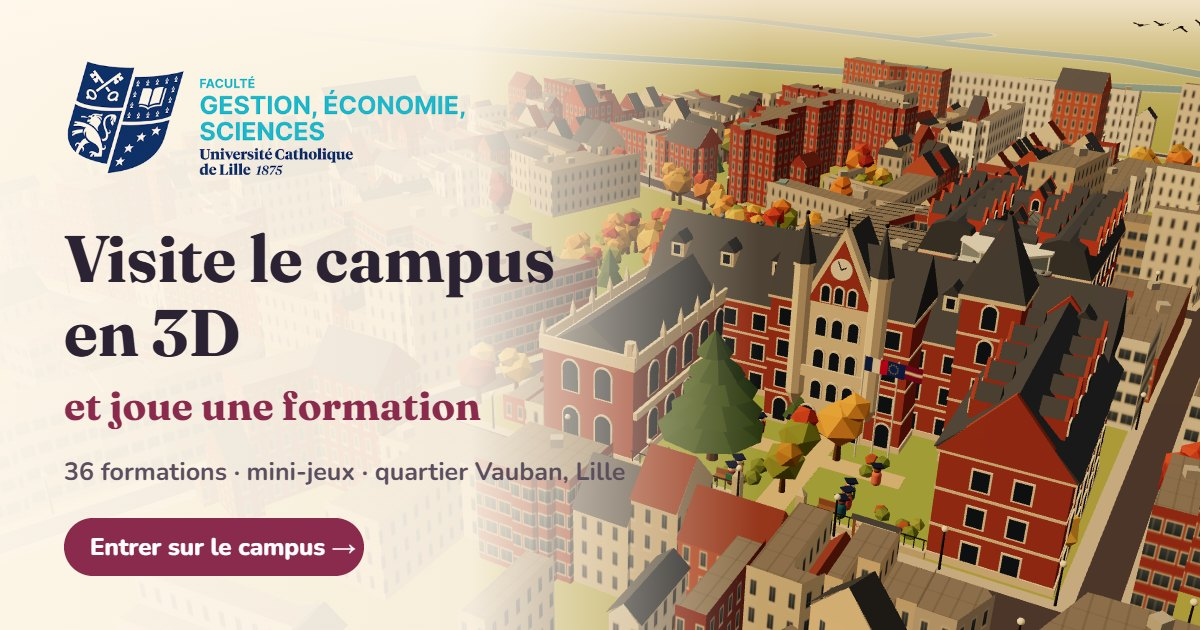
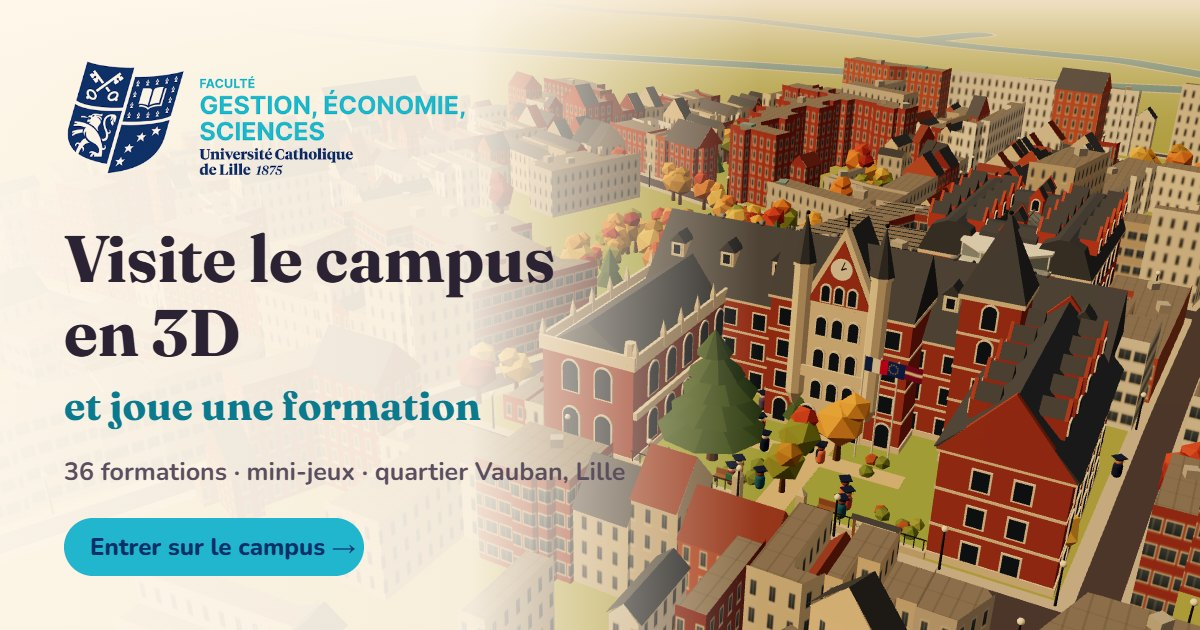
Couleur principale aux couleurs FGES (#21B6CE) à la place du bordeaux
- Fonds bleu FGES avec texte marine (#0B2F67) pour la lisibilité ; bleu foncé (#0B7A8E) pour les textes sur fond clair
- Site, version liste, Comptoir et Mission Jardin ; l'Enquête de l'auditeur (ISEA) garde sa couleur
- Image d'aperçu de partage régénérée

diff --git a/index.html b/index.html
@@ -24,7 +24,7 @@
 <style>
 :root{
 	--cream:#fff8ec; --cream2:#f6ead6; --ink:#2b2233; --ink2:#5b4f5f; --muted:#8a7d86;
-	--navy:#1e305e; --bordeaux:#8a2b4e; --gold:#d9a441; --line:#ead9bf;
+	--navy:#1e305e; --brand:#21b6ce; --brand-ink:#0b7a8e; --on-brand:#0b2f67; --brand-soft:#e4f6f9; --gold:#d9a441; --line:#ead9bf;
 	--shadow:0 18px 50px rgba(60,35,20,.22), 0 2px 6px rgba(60,35,20,.12);
 }
 *{box-sizing:border-box}
@@ -36,8 +36,8 @@ button{font:inherit;color:inherit;cursor:pointer}
 /* ---------- Chargement & fondu ---------- */
 #loader{position:fixed;inset:0;display:grid;place-items:center;background:#f3dcb8;z-index:50;transition:opacity .8s ease}
 #loader.gone{opacity:0;pointer-events:none}
-#loader p{font:600 20px Fraunces,Georgia,serif;color:var(--bordeaux);margin:0}
-#loader i{display:block;width:44px;height:44px;margin:0 auto 14px;border-radius:50%;border:4px solid #e9c99a;border-top-color:var(--bordeaux);animation:spin 1s linear infinite}
+#loader p{font:600 20px Fraunces,Georgia,serif;color:var(--brand-ink);margin:0}
+#loader i{display:block;width:44px;height:44px;margin:0 auto 14px;border-radius:50%;border:4px solid #e9c99a;border-top-color:var(--brand);animation:spin 1s linear infinite}
 @keyframes spin{to{transform:rotate(360deg)}}
 #fade{position:fixed;inset:0;background:#fff3e0;z-index:35;opacity:0;pointer-events:none;transition:opacity .4s ease}
 #fade.on{opacity:1;pointer-events:auto}
@@ -57,7 +57,7 @@ button{font:inherit;color:inherit;cursor:pointer}
 .actions{display:flex;gap:8px;flex-wrap:wrap;justify-content:flex-end;position:relative}
 .chip{display:inline-flex;align-items:center;gap:6px;border:0;background:var(--cream);padding:10px 14px;border-radius:999px;box-shadow:var(--shadow);font-weight:800;font-size:13.5px;transition:transform .15s ease;min-height:42px}
 .chip:hover{transform:translateY(-2px)}
-.chip .n{background:var(--bordeaux);color:#fff;border-radius:999px;min-width:20px;height:20px;padding:0 6px;display:inline-grid;place-items:center;font-size:11.5px}
+.chip .n{background:var(--brand);color:var(--on-brand);border-radius:999px;min-width:20px;height:20px;padding:0 6px;display:inline-grid;place-items:center;font-size:11.5px}
 .chip.icon{width:42px;justify-content:center;padding:10px 0}
 
 /* ---------- Ambiance ---------- */
@@ -67,7 +67,7 @@ button{font:inherit;color:inherit;cursor:pointer}
 .seg{display:flex;gap:6px;flex-wrap:wrap;margin-bottom:12px}
 .seg:last-child{margin-bottom:0}
 .seg button{flex:1;border:2px solid var(--line);background:#fff;border-radius:12px;padding:8px 6px;font-weight:800;font-size:13px;white-space:nowrap}
-.seg button[aria-pressed=true]{border-color:var(--bordeaux);background:#fdf1f4;color:var(--bordeaux)}
+.seg button[aria-pressed=true]{border-color:var(--brand-ink);background:var(--brand-soft);color:var(--brand-ink)}
 
 .hint{position:fixed;left:50%;bottom:max(18px,env(safe-area-inset-bottom));transform:translate(-50%,20px);background:rgba(43,34,51,.78);color:#fff;padding:9px 16px;border-radius:999px;font-size:13px;font-weight:700;opacity:0;transition:.6s ease;z-index:5;white-space:nowrap;pointer-events:none;max-width:calc(100% - 24px);overflow:hidden;text-overflow:ellipsis}
 .hint.on{opacity:1;transform:translate(-50%,0)}
@@ -88,10 +88,10 @@ button{font:inherit;color:inherit;cursor:pointer}
 .pin:hover span,.pin.hover span{transform:scale(1.08);background:#fff}
 .pin.hidden{visibility:hidden}
 .pin span i{font-style:normal}
-.pin.edge span{background:var(--bordeaux);color:#fff}
+.pin.edge span{background:var(--brand);color:var(--on-brand)}
 .pin.edge span em{background:rgba(255,255,255,.2)}
 .pin.edge span:after{content:" →";font-weight:800}
-.pin.edge:after{background:var(--bordeaux)}
+.pin.edge:after{background:var(--brand)}
 .pin.life span{padding:4px;gap:0}
 .pin.life span em{width:30px;height:30px;font-size:16px;background:#fff}
 .pin.life span i{max-width:0;overflow:hidden;transition:max-width .25s ease, margin .25s ease}
@@ -107,27 +107,27 @@ button{font:inherit;color:inherit;cursor:pointer}
 #welcome.gone{opacity:0;pointer-events:none}
 .card{background:var(--cream);border-radius:26px;box-shadow:var(--shadow);padding:26px 24px 22px;width:100%;max-width:470px;text-align:center;animation:rise .7s cubic-bezier(.2,.8,.2,1) both .3s}
 @keyframes rise{from{opacity:0;transform:translateY(24px) scale(.97)}to{opacity:1;transform:none}}
-.kick{font-size:11.5px;font-weight:800;letter-spacing:.12em;text-transform:uppercase;color:var(--bordeaux)}
+.kick{font-size:11.5px;font-weight:800;letter-spacing:.12em;text-transform:uppercase;color:var(--brand-ink)}
 .card h1{font:700 34px/1.08 Fraunces,Georgia,serif;margin:8px 0 10px;letter-spacing:-.01em}
 .card .wlogo{display:block;height:54px;width:auto;margin:0 auto 6px}
 .card p{margin:0 auto 16px;color:var(--ink2);max-width:380px}
 .profiles{display:grid;gap:9px;margin:0 0 12px}
 .profile{display:flex;align-items:center;gap:12px;text-align:left;border:2px solid var(--line);background:#fff;border-radius:16px;padding:11px 14px;transition:.15s ease}
 .profile:hover{border-color:#d9b98a;transform:translateY(-1px)}
-.profile[aria-pressed=true]{border-color:var(--bordeaux);background:#fdf1f4}
+.profile[aria-pressed=true]{border-color:var(--brand-ink);background:var(--brand-soft)}
 .profile .e{font-size:24px}
 .profile b{display:block;font-size:15px}
 .profile small{color:var(--muted);font-weight:600}
 .toggle{display:flex;align-items:center;justify-content:center;gap:10px;margin:0 0 14px;font-weight:700;color:var(--ink2);font-size:14px;cursor:pointer}
 .toggle input{appearance:none;-webkit-appearance:none;width:42px;height:24px;border-radius:999px;background:#e5d6bf;position:relative;cursor:pointer;transition:.2s;margin:0}
 .toggle input:after{content:"";position:absolute;top:3px;left:3px;width:18px;height:18px;border-radius:50%;background:#fff;transition:.2s;box-shadow:0 1px 3px rgba(0,0,0,.2)}
-.toggle input:checked{background:var(--bordeaux)}
+.toggle input:checked{background:var(--brand)}
 .toggle input:checked:after{left:21px}
-.go{width:100%;border:0;background:var(--bordeaux);color:#fff;border-radius:16px;padding:15px;font-weight:800;font-size:16px;box-shadow:0 8px 20px rgba(138,43,78,.35);transition:.15s ease}
-.go:hover{transform:translateY(-2px);box-shadow:0 12px 26px rgba(138,43,78,.4)}
+.go{width:100%;border:0;background:var(--brand);color:var(--on-brand);border-radius:16px;padding:15px;font-weight:800;font-size:16px;box-shadow:0 8px 20px rgba(20,140,160,.35);transition:.15s ease}
+.go:hover{transform:translateY(-2px);box-shadow:0 12px 26px rgba(20,140,160,.4)}
 .go:disabled{opacity:.45;transform:none;box-shadow:none;cursor:default}
 .plain{display:inline-block;margin-top:12px;font-size:13px;font-weight:700;color:var(--muted)}
-.plain:hover{color:var(--bordeaux)}
+.plain:hover{color:var(--brand-ink)}
 
 /* ---------- Panneau ---------- */
 #panel{position:fixed;top:84px;right:16px;bottom:16px;width:400px;background:var(--cream);border-radius:24px;box-shadow:var(--shadow);z-index:12;transform:translateX(calc(100% + 30px));transition:transform .5s cubic-bezier(.2,.8,.2,1);display:flex;flex-direction:column;overflow:hidden}
@@ -149,8 +149,8 @@ button{font:inherit;color:inherit;cursor:pointer}
 .school{font-size:10.5px;font-weight:800;letter-spacing:.08em;padding:3px 8px;border-radius:999px;color:#fff}
 /* couleurs officielles des entités ; texte foncé sur le turquoise et le jaune pour rester lisible */
 .s-FGES{background:#21b6ce;color:#0b2f67} .s-ISEA{background:#872852;color:#fff} .s-EDN{background:#ca971a;color:#1f1a10}
-.fav{border:0;background:var(--cream2);width:34px;height:34px;border-radius:50%;font-size:17px;line-height:1;color:var(--bordeaux);transition:transform .15s ease}
-.fav[aria-pressed=true]{background:var(--bordeaux);color:#fff}
+.fav{border:0;background:var(--cream2);width:34px;height:34px;border-radius:50%;font-size:17px;line-height:1;color:var(--brand-ink);transition:transform .15s ease}
+.fav[aria-pressed=true]{background:var(--brand);color:var(--on-brand)}
 .fav:active{transform:scale(.85)}
 .fcard h4{margin:8px 0 2px;font:700 16px/1.25 Fraunces,Georgia,serif}
 .fcard .meta{margin:0 0 6px;font-size:12.5px;color:var(--muted);font-weight:700}
@@ -163,13 +163,13 @@ button{font:inherit;color:inherit;cursor:pointer}
 .link{font-size:13px;font-weight:800;color:var(--navy);text-decoration:none}
 .link:hover{text-decoration:underline}
 .btn{display:block;width:100%;text-align:center;border:0;border-radius:14px;padding:13px;font-weight:800;font-size:14.5px;text-decoration:none;margin:8px 0 0}
-.btn.main{background:var(--bordeaux);color:#fff}
+.btn.main{background:var(--brand);color:var(--on-brand)}
 .btn.alt{background:#fff;color:var(--navy);border:2px solid var(--line)}
 .links{display:grid;gap:6px}
 .btn.link-out{display:flex;justify-content:space-between;align-items:center;margin:0;background:#fff;color:var(--navy);border:2px solid var(--line);text-align:left;padding:11px 14px}
 .btn.link-out:hover{border-color:#d9b98a;background:#fffdf8}
-.btn.link-out span{color:var(--bordeaux);font-size:16px}
-.btn.atrium{margin:0 0 6px;background:linear-gradient(135deg,#c45a3b,#8a2b4e);color:#fff;font-size:15.5px;padding:15px;box-shadow:0 8px 20px rgba(138,43,78,.3)}
+.btn.link-out span{color:var(--brand-ink);font-size:16px}
+.btn.atrium{margin:0 0 6px;background:linear-gradient(135deg,#127f93,#1e305e);color:#fff;font-size:15.5px;padding:15px;box-shadow:0 8px 20px rgba(20,140,160,.3)}
 .tipline{margin-top:14px;text-align:center;font-size:13px;font-weight:700;color:var(--muted)}
 .steps{list-style:none;padding:0;margin:0 0 6px;counter-reset:s}
 .steps li{position:relative;padding:10px 12px 10px 48px;background:#fff;border:1px solid var(--line);border-radius:16px;margin-bottom:8px;font-size:14px;color:var(--ink2)}
@@ -182,7 +182,7 @@ button{font:inherit;color:inherit;cursor:pointer}
 .gteaser .gic{background:#fff}
 .gteaser b{display:block;font:700 16px/1.15 Fraunces,serif}
 .gteaser small{display:block;font-size:12px;color:var(--ink2);font-weight:700}
-.gteaser .gplay{flex:none;background:var(--bordeaux);color:#fff;border-radius:999px;padding:7px 12px;font-weight:800;font-size:13px;white-space:nowrap}
+.gteaser .gplay{flex:none;background:var(--brand);color:var(--on-brand);border-radius:999px;padding:7px 12px;font-weight:800;font-size:13px;white-space:nowrap}
 .gteaser:hover{filter:brightness(1.03)}
 .acts .more{display:block;text-align:center;font-size:13px;font-weight:700;color:var(--navy);padding:6px;text-decoration:underline;text-underline-offset:3px}
 .gcard{background:#fff;border:1px solid var(--line);border-radius:18px;padding:14px;margin-bottom:10px}
@@ -224,20 +224,20 @@ button{font:inherit;color:inherit;cursor:pointer}
 .dock button{position:relative;display:flex;align-items:center;gap:7px;border:0;background:none;border-radius:16px;padding:10px 15px;font-weight:800;font-size:14px;transition:background .15s ease}
 .dock button i{font-style:normal;font-size:18px}
 .dock button:hover{background:var(--cream2)}
-.dock button[aria-pressed=true]{background:var(--bordeaux);color:#fff}
-.dock .n{background:var(--bordeaux);color:#fff;border-radius:999px;min-width:19px;height:19px;padding:0 5px;display:inline-grid;place-items:center;font-size:11px}
-.dock button[aria-pressed=true] .n{background:#fff;color:var(--bordeaux)}
+.dock button[aria-pressed=true]{background:var(--brand);color:var(--on-brand)}
+.dock .n{background:var(--brand);color:var(--on-brand);border-radius:999px;min-width:19px;height:19px;padding:0 5px;display:inline-grid;place-items:center;font-size:11px}
+.dock button[aria-pressed=true] .n{background:#fff;color:var(--brand-ink)}
 .dock.pulse{animation:dockPulse 1.4s ease 2}
 @keyframes dockPulse{50%{box-shadow:0 0 0 8px rgba(217,164,65,.45),var(--shadow)}}
 
 /* ---------- Recherche & listes ---------- */
 .search{position:relative;margin-top:12px}
 .search input{width:100%;border:2px solid var(--line);background:#fff;border-radius:14px;padding:12px 14px 12px 40px;font:600 15px Nunito,sans-serif;color:var(--ink);outline:none}
-.search input:focus{border-color:var(--bordeaux)}
+.search input:focus{border-color:var(--brand-ink)}
 .search:before{content:"🔎";position:absolute;left:13px;top:50%;transform:translateY(-50%);font-size:15px}
 .fchips{display:flex;gap:6px;flex-wrap:wrap;margin-top:10px}
 .fchips button{border:2px solid var(--line);background:#fff;border-radius:999px;padding:5px 11px;font-weight:800;font-size:12.5px}
-.fchips button[aria-pressed=true]{border-color:var(--bordeaux);background:#fdf1f4;color:var(--bordeaux)}
+.fchips button[aria-pressed=true]{border-color:var(--brand-ink);background:var(--brand-soft);color:var(--brand-ink)}
 .grp{display:flex;align-items:center;justify-content:space-between;margin:14px 4px 6px}
 .grp h3{margin:0!important}
 .grp button{border:0;background:var(--cream2);border-radius:999px;padding:5px 10px;font-weight:800;font-size:12px}
@@ -267,7 +267,7 @@ button{font:inherit;color:inherit;cursor:pointer}
 .prog li:before{content:"";position:absolute;left:5px;top:6px;width:9px;height:9px;border-radius:50%;background:var(--gold)}
 .prog li:after{content:"";position:absolute;left:9px;top:17px;bottom:0;width:1px;background:var(--line)}
 .prog li:last-child:after{display:none}
-.prog b{display:block;font-size:12.5px;letter-spacing:.06em;text-transform:uppercase;color:var(--bordeaux)}
+.prog b{display:block;font-size:12.5px;letter-spacing:.06em;text-transform:uppercase;color:var(--brand-ink)}
 .prog span{font-size:14px;color:var(--ink2)}
 .info{background:#fff;border:1px solid var(--line);border-radius:14px;padding:11px 13px;font-size:14px;color:var(--ink2);margin-bottom:8px}
 .info b{color:var(--ink)}
@@ -284,32 +284,32 @@ button{font:inherit;color:inherit;cursor:pointer}
 .lead-f{border:0;margin:0 0 4px;padding:0}
 .lead-f legend{font-size:11.5px;font-weight:800;letter-spacing:.06em;text-transform:uppercase;color:var(--muted);margin-bottom:6px}
 .lead-f label{display:flex;gap:8px;align-items:flex-start;background:#fff;border:1px solid var(--line);border-radius:12px;padding:8px 10px;margin-bottom:5px;font-size:14px;font-weight:700}
-.lead-f input{margin-top:3px;accent-color:var(--bordeaux)}
+.lead-f input{margin-top:3px;accent-color:var(--brand-ink)}
 .lead-row{display:grid;grid-template-columns:1fr 1fr;gap:8px}
 .fld{display:block;margin-top:8px}
 .fld span{display:block;font-size:11.5px;font-weight:800;letter-spacing:.05em;text-transform:uppercase;color:var(--muted);margin-bottom:4px}
 .fld input{width:100%;min-height:44px;border:2px solid var(--line);border-radius:12px;padding:10px 12px;font:600 16px Nunito,sans-serif;background:#fff;color:var(--ink);outline:none}
-.fld input:focus{border-color:var(--bordeaux)}
+.fld input:focus{border-color:var(--brand-ink)}
 .fld input[aria-invalid=true]{border-color:#b91c1c}
 .hp{position:absolute;left:-9999px;width:1px;height:1px;overflow:hidden}
 .opt{display:flex;gap:10px;align-items:flex-start;margin-top:10px;font-size:13.5px;color:var(--ink2);cursor:pointer}
-.opt input{margin-top:3px;width:18px;height:18px;flex:none;accent-color:var(--bordeaux)}
+.opt input{margin-top:3px;width:18px;height:18px;flex:none;accent-color:var(--brand-ink)}
 .lead-err{background:#fde8e8;color:#9b1c1c;border-radius:10px;padding:8px 12px;font-weight:700;font-size:13.5px;margin:10px 0 0}
 .lead-card .go{margin-top:12px}
-.lead-note{font-size:11.5px;color:var(--muted);margin:10px 0 0} .lead-note a{color:var(--bordeaux);font-weight:700}
+.lead-note{font-size:11.5px;color:var(--muted);margin:10px 0 0} .lead-note a{color:var(--brand-ink);font-weight:700}
 .lead-big{font-size:52px;text-align:center;margin-top:6px}
 #leadDone h2{text-align:center;margin-right:0}
 #leadDone .lead-p{text-align:center}
 #leadLinks{display:grid;gap:6px;margin-top:8px}
 #leadLinks a{display:flex;justify-content:space-between;background:#fff;border:2px solid var(--line);border-radius:12px;padding:10px 12px;text-decoration:none;color:var(--navy);font-weight:800;font-size:14px}
-#leadLinks a.dl{background:var(--bordeaux);border-color:var(--bordeaux);color:#fff;font-size:15px;padding:12px 14px}
+#leadLinks a.dl{background:var(--brand);border-color:var(--brand);color:var(--on-brand);font-size:15px;padding:12px 14px}
 @media (max-width:480px){ .lead-row{grid-template-columns:1fr} }
 
 /* ---------- Visite guidée ---------- */
 .tour{position:fixed;left:0;right:0;margin:0 auto;bottom:calc(max(14px,env(safe-area-inset-bottom)) + 70px);z-index:13;width:min(460px,calc(100% - 24px));background:var(--cream);border-radius:22px;box-shadow:var(--shadow);padding:14px 16px 12px;animation:rise .4s ease both}
 .tour[hidden]{display:none}
 .tour-top{display:flex;justify-content:space-between;align-items:center}
-.tour-k{font-size:11px;font-weight:800;letter-spacing:.12em;text-transform:uppercase;color:var(--bordeaux)}
+.tour-k{font-size:11px;font-weight:800;letter-spacing:.12em;text-transform:uppercase;color:var(--brand-ink)}
 .tour-dots{font-size:12px;font-weight:800;color:var(--muted)}
 .tour h3{font:700 21px/1.15 Fraunces,Georgia,serif;margin:4px 0 4px}
 .tour p{margin:0 0 10px;color:var(--ink2);font-size:14px}
@@ -318,19 +318,19 @@ button{font:inherit;color:inherit;cursor:pointer}
 .tour-ctl{display:flex;gap:6px;align-items:center}
 .tour-ctl button{border:0;background:var(--cream2);border-radius:12px;min-width:40px;height:38px;font-weight:800;font-size:14px}
 .tour-ctl button:hover{background:#efdcc0}
-.tour-ctl .tour-open{flex:1;background:var(--bordeaux);color:#fff}
+.tour-ctl .tour-open{flex:1;background:var(--brand);color:var(--on-brand)}
 .tour-ctl .tour-open:hover{background:#7a2443}
 
 /* ---------- Accueil guidé ---------- */
 .coach{position:fixed;left:0;right:0;margin:0 auto;bottom:calc(max(14px,env(safe-area-inset-bottom)) + 72px);z-index:14;width:min(470px,calc(100% - 24px));display:grid;grid-template-columns:auto 1fr;gap:4px 14px;background:var(--cream);border-radius:22px;box-shadow:var(--shadow);padding:16px;border:2px solid var(--gold);animation:rise .4s ease both}
 .coach[hidden]{display:none}
 .coach-ic{grid-row:span 2;width:54px;height:54px;border-radius:16px;background:var(--cream2);display:grid;place-items:center;font-size:28px}
-.coach-k{font-size:11px;font-weight:800;letter-spacing:.12em;text-transform:uppercase;color:var(--bordeaux)}
+.coach-k{font-size:11px;font-weight:800;letter-spacing:.12em;text-transform:uppercase;color:var(--brand-ink)}
 .coach-tx b{display:block;font:700 18px/1.2 Fraunces,Georgia,serif;margin:2px 0}
 .coach-tx p{margin:0;color:var(--ink2);font-size:14px}
 .coach-ctl{grid-column:2;display:flex;gap:8px;justify-content:flex-end;margin-top:8px}
 .coach-ctl button{border:0;border-radius:12px;padding:9px 14px;font-weight:800;background:var(--cream2)}
-.coach-ctl .go-s{background:var(--bordeaux);color:#fff}
+.coach-ctl .go-s{background:var(--brand);color:var(--on-brand)}
 
 @media (min-width:721px){ #panel{bottom:88px} }
 @media (max-width:720px){

diff --git a/js/games/comptoir.js b/js/games/comptoir.js
@@ -44,7 +44,7 @@ const CSS = `
 .cz-top>*{pointer-events:auto}
 .cz-chip{background:rgba(255,248,236,.95);border-radius:999px;padding:7px 12px;font-weight:800;font-size:13px;box-shadow:0 6px 18px rgba(40,20,10,.25);display:flex;gap:6px;align-items:center}
 .cz-chip b{font-size:15px}
-.cz-day{background:#8a2b4e;color:#fff} .cz-day:empty{display:none}
+.cz-day{background:#21b6ce;color:#0b2f67} .cz-day:empty{display:none}
 .cz-x{margin-left:auto;width:40px;height:40px;border-radius:50%;border:0;background:rgba(255,248,236,.95);font-size:22px;cursor:pointer;box-shadow:0 6px 18px rgba(40,20,10,.25)}
 .cz-bar{width:70px;height:8px;border-radius:8px;background:#ead9bf;overflow:hidden}
 .cz-bar i{display:block;height:100%;background:linear-gradient(90deg,#c4532f,#d9a441,#3d7a55);transition:width .4s}
@@ -66,7 +66,7 @@ const CSS = `
 .cz-order{display:flex;align-items:center;gap:8px;font-weight:800;font-size:14px;margin:0 4px 8px;min-height:30px}
 .cz-order .it{font-size:24px;opacity:.4;filter:grayscale(1);transition:.15s}
 .cz-order .it.on{opacity:1;filter:none;transform:scale(1.15)}
-.cz-order .sp{margin-left:auto;color:#8a2b4e}
+.cz-order .sp{margin-left:auto;color:#0b7a8e}
 .cz-keys{display:grid;grid-template-columns:repeat(3,1fr);gap:8px}
 .cz-keys button{border:0;border-radius:16px;background:#fff;box-shadow:inset 0 0 0 2px #ead9bf,0 4px 0 #ead9bf;padding:10px 4px 8px;font:800 30px/1 Nunito,sans-serif;cursor:pointer;touch-action:manipulation;user-select:none;-webkit-user-select:none;color:#2b2233}
 .cz-keys button small{display:block;font-size:12px;margin-top:4px;color:#5b4f5f}
@@ -89,7 +89,7 @@ const CSS = `
 .cz-lbtns button:disabled{opacity:.42;cursor:default}
 .cz-lbtns button.glow{box-shadow:inset 0 0 0 3px #d9a441,0 4px 0 #d9a441;animation:czGlow 1s ease-in-out infinite alternate}
 @keyframes czGlow{to{background:#fff3d6}}
-.cz-lbtns button .bar{position:absolute;left:0;bottom:0;height:4px;background:#8a2b4e;width:var(--p,0%)}
+.cz-lbtns button .bar{position:absolute;left:0;bottom:0;height:4px;background:#21b6ce;width:var(--p,0%)}
 .cz.gerant .cz-bub{pointer-events:auto;cursor:pointer}
 .cz.gerant .cz-bub.warn span{animation:czWarn .6s ease-in-out infinite alternate}
 .cz.gerant .cz-bub.warn span::after{content:"🍪";font-size:15px;margin-left:3px}
@@ -103,20 +103,20 @@ const CSS = `
 .cz-panel[hidden]{display:none}
 .cz-card{width:100%;max-width:470px;background:#fff8ec;border-radius:24px;box-shadow:0 30px 80px rgba(20,10,5,.45);padding:20px 18px 18px;animation:czUp .35s cubic-bezier(.2,.8,.2,1) both}
 @keyframes czUp{from{opacity:0;transform:translateY(16px)}to{opacity:1;transform:none}}
-.cz-k{font-size:11px;font-weight:800;letter-spacing:.12em;text-transform:uppercase;color:#8a2b4e}
+.cz-k{font-size:11px;font-weight:800;letter-spacing:.12em;text-transform:uppercase;color:#0b7a8e}
 .cz-h{font:700 23px/1.15 Fraunces,Georgia,serif;margin:4px 0 6px}
 .cz-p{margin:0 0 12px;color:#5b4f5f;font-size:14.5px}
 .cz-row{background:#fff;border:1px solid #ead9bf;border-radius:16px;padding:11px 13px;margin-bottom:8px}
 .cz-row .t{display:flex;justify-content:space-between;align-items:center;font-weight:800;font-size:14px}
 .cz-row small{display:block;color:#8a7d86;font-weight:700;font-size:12px;margin-top:3px}
-.cz-row input[type=range]{width:100%;accent-color:#8a2b4e;margin-top:8px}
+.cz-row input[type=range]{width:100%;accent-color:#0b7a8e;margin-top:8px}
 .cz-step{display:flex;align-items:center;gap:8px}
 .cz-step button{width:36px;height:36px;border-radius:12px;border:2px solid #ead9bf;background:#fff;font:800 18px Nunito,sans-serif;cursor:pointer}
 .cz-step b{min-width:42px;text-align:center;font-size:17px}
 .cz-seg{display:flex;gap:6px}
 .cz-seg button{flex:1;border:2px solid #ead9bf;background:#fff;border-radius:12px;padding:8px 4px;font:800 14px Nunito,sans-serif;cursor:pointer}
-.cz-seg button[aria-pressed=true]{border-color:#8a2b4e;background:#fbe9ef;color:#8a2b4e}
-.cz-go{display:block;width:100%;border:0;border-radius:16px;padding:14px;background:#8a2b4e;color:#fff;font:800 16px Nunito,sans-serif;cursor:pointer;margin-top:10px;box-shadow:0 8px 20px rgba(138,43,78,.35);text-align:center;text-decoration:none}
+.cz-seg button[aria-pressed=true]{border-color:#0b7a8e;background:#e4f6f9;color:#0b7a8e}
+.cz-go{display:block;width:100%;border:0;border-radius:16px;padding:14px;background:#21b6ce;color:#0b2f67;font:800 16px Nunito,sans-serif;cursor:pointer;margin-top:10px;box-shadow:0 8px 20px rgba(20,140,160,.35);text-align:center;text-decoration:none}
 .cz-go:disabled{opacity:.45;cursor:default}
 .cz-alt{display:block;width:100%;border:2px solid #ead9bf;border-radius:16px;padding:12px;background:#fff;color:#1e305e;font:800 14px Nunito,sans-serif;cursor:pointer;margin-top:8px;text-align:center;text-decoration:none}
 .cz-hint{font-size:12.5px;font-weight:700;color:#7a6a3a;background:#fbefd0;border-radius:10px;padding:6px 10px;margin-top:8px}
@@ -127,7 +127,7 @@ const CSS = `
 .cz-pos{color:#2f6b45}.cz-neg{color:#b91c1c}
 .cz-chips{display:flex;flex-wrap:wrap;gap:8px;margin:6px 0 12px}
 .cz-tok{border:2px dashed #d9b98a;background:#fff;border-radius:12px;padding:9px 12px;font:800 15px Nunito,sans-serif;cursor:pointer}
-.cz-tok[aria-pressed=true]{border-style:solid;border-color:#8a2b4e;background:#fbe9ef}
+.cz-tok[aria-pressed=true]{border-style:solid;border-color:#0b7a8e;background:#e4f6f9}
 .cz-tok.used{opacity:.3;pointer-events:none}
 .cz-slot{display:flex;justify-content:space-between;align-items:center;gap:8px;width:100%;border:2px dashed #ead9bf;background:#fff;border-radius:14px;padding:10px 12px;margin-bottom:7px;font:700 14px Nunito,sans-serif;cursor:pointer;text-align:left}
 .cz-slot b{min-width:80px;text-align:right}
@@ -145,7 +145,7 @@ const CSS = `
 .cz-big{font-size:50px;text-align:center}
 .cz-list{list-style:none;padding:0;margin:8px 0;display:grid;gap:6px}
 .cz-list li{background:#fff;border:1px solid #ead9bf;border-radius:12px;padding:8px 12px;font-size:14px;font-weight:700}
-.cz-list li span{color:#8a2b4e;font-weight:800;margin-right:6px}
+.cz-list li span{color:#0b7a8e;font-weight:800;margin-right:6px}
 @media (max-width:560px){ .cz-chip{font-size:12px;padding:6px 9px} .cz-bar{width:46px} .cz-h{font-size:20px} }
 `;
 
@@ -246,7 +246,7 @@ export function openComptoir({ formation, audio, isFav, toggleFav, onClose, onEv
 	for(const [x,z,r] of SEATS){ const s = makeStudent(scene, true); s.g.scale.setScalar(.9); s.g.position.set(x, -.1, z); s.g.rotation.y = r; deco.push(s); }
 	// baristas
 	const BX = [-2.2, -.2, 1.8];
-	const baristas = BX.map(x => { const s = makeStudent(scene); s.g.scale.setScalar(.9); s.g.position.set(x, 0, -1.05); const apron = new THREE.Mesh(new THREE.BoxGeometry(.6,.55,.08), std("#8a2b4e")); apron.position.set(0,.6,.32); s.g.add(apron); return { s, cust:null, t:0 }; });
+	const baristas = BX.map(x => { const s = makeStudent(scene); s.g.scale.setScalar(.9); s.g.position.set(x, 0, -1.05); const apron = new THREE.Mesh(new THREE.BoxGeometry(.6,.55,.08), std("#21b6ce")); apron.position.set(0,.6,.32); s.g.add(apron); return { s, cust:null, t:0 }; });
 	// ta caisse : le poste du joueur, au bout du comptoir (tablier doré, étoile au-dessus)
 	const PX = 3.0;
 	const me = makeStudent(scene); me.g.scale.setScalar(.9); me.g.position.set(PX, 0, -1.05);

diff --git a/liste.html b/liste.html
@@ -14,17 +14,17 @@
 <link rel="preconnect" href="https://fonts.gstatic.com" crossorigin>
 <link href="https://fonts.googleapis.com/css2?family=Fraunces:opsz,wght@9..144,600;9..144,700&family=Nunito:wght@400;600;700;800&display=swap" rel="stylesheet">
 <style>
-:root{ --cream:#fff8ec; --cream2:#f6ead6; --ink:#2b2233; --ink2:#4f4453; --muted:#6e6270; --bordeaux:#8a2b4e; --navy:#1e305e; --gold:#b9862f; --line:#e3cfae; }
+:root{ --cream:#fff8ec; --cream2:#f6ead6; --ink:#2b2233; --ink2:#4f4453; --muted:#6e6270; --brand:#21b6ce; --brand-ink:#0b7a8e; --on-brand:#0b2f67; --brand-soft:#e4f6f9; --navy:#1e305e; --gold:#b9862f; --line:#e3cfae; }
 *{box-sizing:border-box}
 body{margin:0;background:var(--cream);color:var(--ink);font:400 16px/1.55 Nunito,system-ui,sans-serif}
 a{color:var(--navy);font-weight:700}
-a:focus-visible,button:focus-visible,input:focus-visible,summary:focus-visible{outline:3px solid var(--bordeaux);outline-offset:2px}
+a:focus-visible,button:focus-visible,input:focus-visible,summary:focus-visible{outline:3px solid var(--brand-ink);outline-offset:2px}
 .skip{position:absolute;left:-999px;top:8px;background:#fff;padding:8px 12px;border-radius:8px}
 .skip:focus{left:8px}
-header{background:var(--bordeaux);color:#fff;padding:28px 20px 24px}
+header{background:var(--brand);color:var(--on-brand);padding:28px 20px 24px}
 header .in,main{max-width:860px;margin:0 auto}
 header p{margin:6px 0 0;opacity:.92}
-header a{color:#fff}
+header a{color:var(--on-brand)}
 h1{font:700 32px/1.1 Fraunces,Georgia,serif;margin:0}
 h2{font:700 24px/1.2 Fraunces,Georgia,serif;margin:34px 0 4px}
 h2 small{display:block;font:700 14px Nunito,sans-serif;color:var(--muted);margin-top:4px}
@@ -34,23 +34,23 @@ main{padding:8px 20px 60px}
 .tools input{width:100%;border:2px solid var(--line);border-radius:12px;padding:12px 14px;font:600 16px Nunito,sans-serif;background:#fff;color:var(--ink)}
 .chips{display:flex;flex-wrap:wrap;gap:6px;margin-top:10px}
 .chips button{border:2px solid var(--line);background:#fff;border-radius:999px;padding:6px 12px;font:800 14px Nunito,sans-serif;color:var(--ink);cursor:pointer}
-.chips button[aria-pressed=true]{border-color:var(--bordeaux);background:#fbe9ef;color:var(--bordeaux)}
+.chips button[aria-pressed=true]{border-color:var(--brand-ink);background:var(--brand-soft);color:var(--brand-ink)}
 .count{margin:10px 0 0;font-weight:700;color:var(--muted)}
 details{background:#fff;border:1px solid var(--line);border-radius:14px;margin:10px 0;padding:0 16px}
 summary{cursor:pointer;padding:14px 0;list-style:none}
 summary::-webkit-details-marker{display:none}
 summary b{display:block;font:700 18px/1.3 Fraunces,Georgia,serif}
 summary span{display:block;color:var(--muted);font-weight:700;font-size:14px}
-summary:after{content:"Afficher le détail ▾";display:inline-block;margin-top:6px;font-size:13px;font-weight:800;color:var(--bordeaux)}
+summary:after{content:"Afficher le détail ▾";display:inline-block;margin-top:6px;font-size:13px;font-weight:800;color:var(--brand-ink)}
 details[open] summary:after{content:"Masquer ▴"}
 .det{padding:0 0 16px}
-.det h3{font-size:14px;letter-spacing:.06em;text-transform:uppercase;color:var(--bordeaux);margin:12px 0 6px}
+.det h3{font-size:14px;letter-spacing:.06em;text-transform:uppercase;color:var(--brand-ink);margin:12px 0 6px}
 .det ul{margin:0;padding-left:20px}
 .det li{margin-bottom:6px}
 .det .game{background:#fff3d6;border-radius:12px;padding:10px 12px;margin:12px 0 0}
 .acts{display:flex;flex-wrap:wrap;gap:8px;margin-top:12px}
 .acts a{display:inline-block;padding:9px 14px;border-radius:10px;border:2px solid var(--line);text-decoration:none;background:#fff}
-.acts a.main{background:var(--bordeaux);border-color:var(--bordeaux);color:#fff}
+.acts a.main{background:var(--brand);border-color:var(--brand);color:var(--on-brand)}
 .place{background:#fff;border:1px solid var(--line);border-radius:14px;padding:14px 16px;margin:10px 0}
 .place h3{margin:0 0 4px;font:700 18px Fraunces,Georgia,serif}
 .place p{margin:0 0 6px;color:var(--ink2)}

diff --git a/js/games/jardin.js b/js/games/jardin.js
@@ -453,7 +453,7 @@ export function openJardin({ formation, audio, isFav, toggleFav, onClose, onEven
 			x.strokeStyle = "rgba(255,255,255,.35)"; x.lineWidth = 1;
 			for(let k=1;k<N;k++){ x.beginPath(); x.moveTo(k*s, 0); x.lineTo(k*s, 400); x.moveTo(0, k*s); x.lineTo(400, k*s); x.stroke(); }
 			x.font = "28px serif"; x.fillText("☀", 360, 392);
-			for(const c of chosen){ x.strokeStyle = "#8a2b4e"; x.lineWidth = 4; x.strokeRect(c.i*s + 2, c.j*s + 2, s - 4, s - 4); }
+			for(const c of chosen){ x.strokeStyle = "#0b7a8e"; x.lineWidth = 4; x.strokeRect(c.i*s + 2, c.j*s + 2, s - 4, s - 4); }
 			const b = card.querySelector("[data-c]"); b.disabled = chosen.length < 4; b.textContent = `Compter (${chosen.length}/4)`;
 		};
 		drawMap();
@@ -480,7 +480,7 @@ export function openJardin({ formation, audio, isFav, toggleFav, onClose, onEven
 			const draw = () => {
 				const x = cv.getContext("2d");
 				x.fillStyle = "#8cc06a"; x.fillRect(0, 0, 400, 400);
-				x.strokeStyle = "#8a2b4e"; x.lineWidth = 8; x.strokeRect(4, 4, 392, 392);
+				x.strokeStyle = "#0b7a8e"; x.lineWidth = 8; x.strokeRect(4, 4, 392, 392);
 				c.pts.forEach(([u, v], k) => {
 					const px = u*400, py = v*400;
 					x.fillStyle = "#fffdf0"; for(let p=0;p<8;p++){ const a = p/8*Math.PI*2; x.beginPath(); x.ellipse(px + Math.cos(a)*11, py + Math.sin(a)*11, 8, 4, a, 0, 7); x.fill(); }

diff --git a/js/main.js b/js/main.js
@@ -185,7 +185,7 @@ function signTexture(lines){
 	const x = c.getContext("2d");
 	x.fillStyle = "#6b4a35"; x.fillRect(0,0,512,220);
 	x.fillStyle = "#f6ead6"; x.fillRect(12,12,488,196);
-	x.fillStyle = "#8a2b4e"; x.textAlign = "center";
+	x.fillStyle = "#0b7a8e"; x.textAlign = "center";
 	x.font = "bold 54px Georgia, serif"; x.fillText(lines[0], 256, 96);
 	x.fillStyle = "#5b4f5f"; x.font = "28px Georgia, serif"; x.fillText(lines[1], 256, 150);
 	const t = new THREE.CanvasTexture(c); t.colorSpace = THREE.SRGBColorSpace; t.anisotropy = 4; return t;
